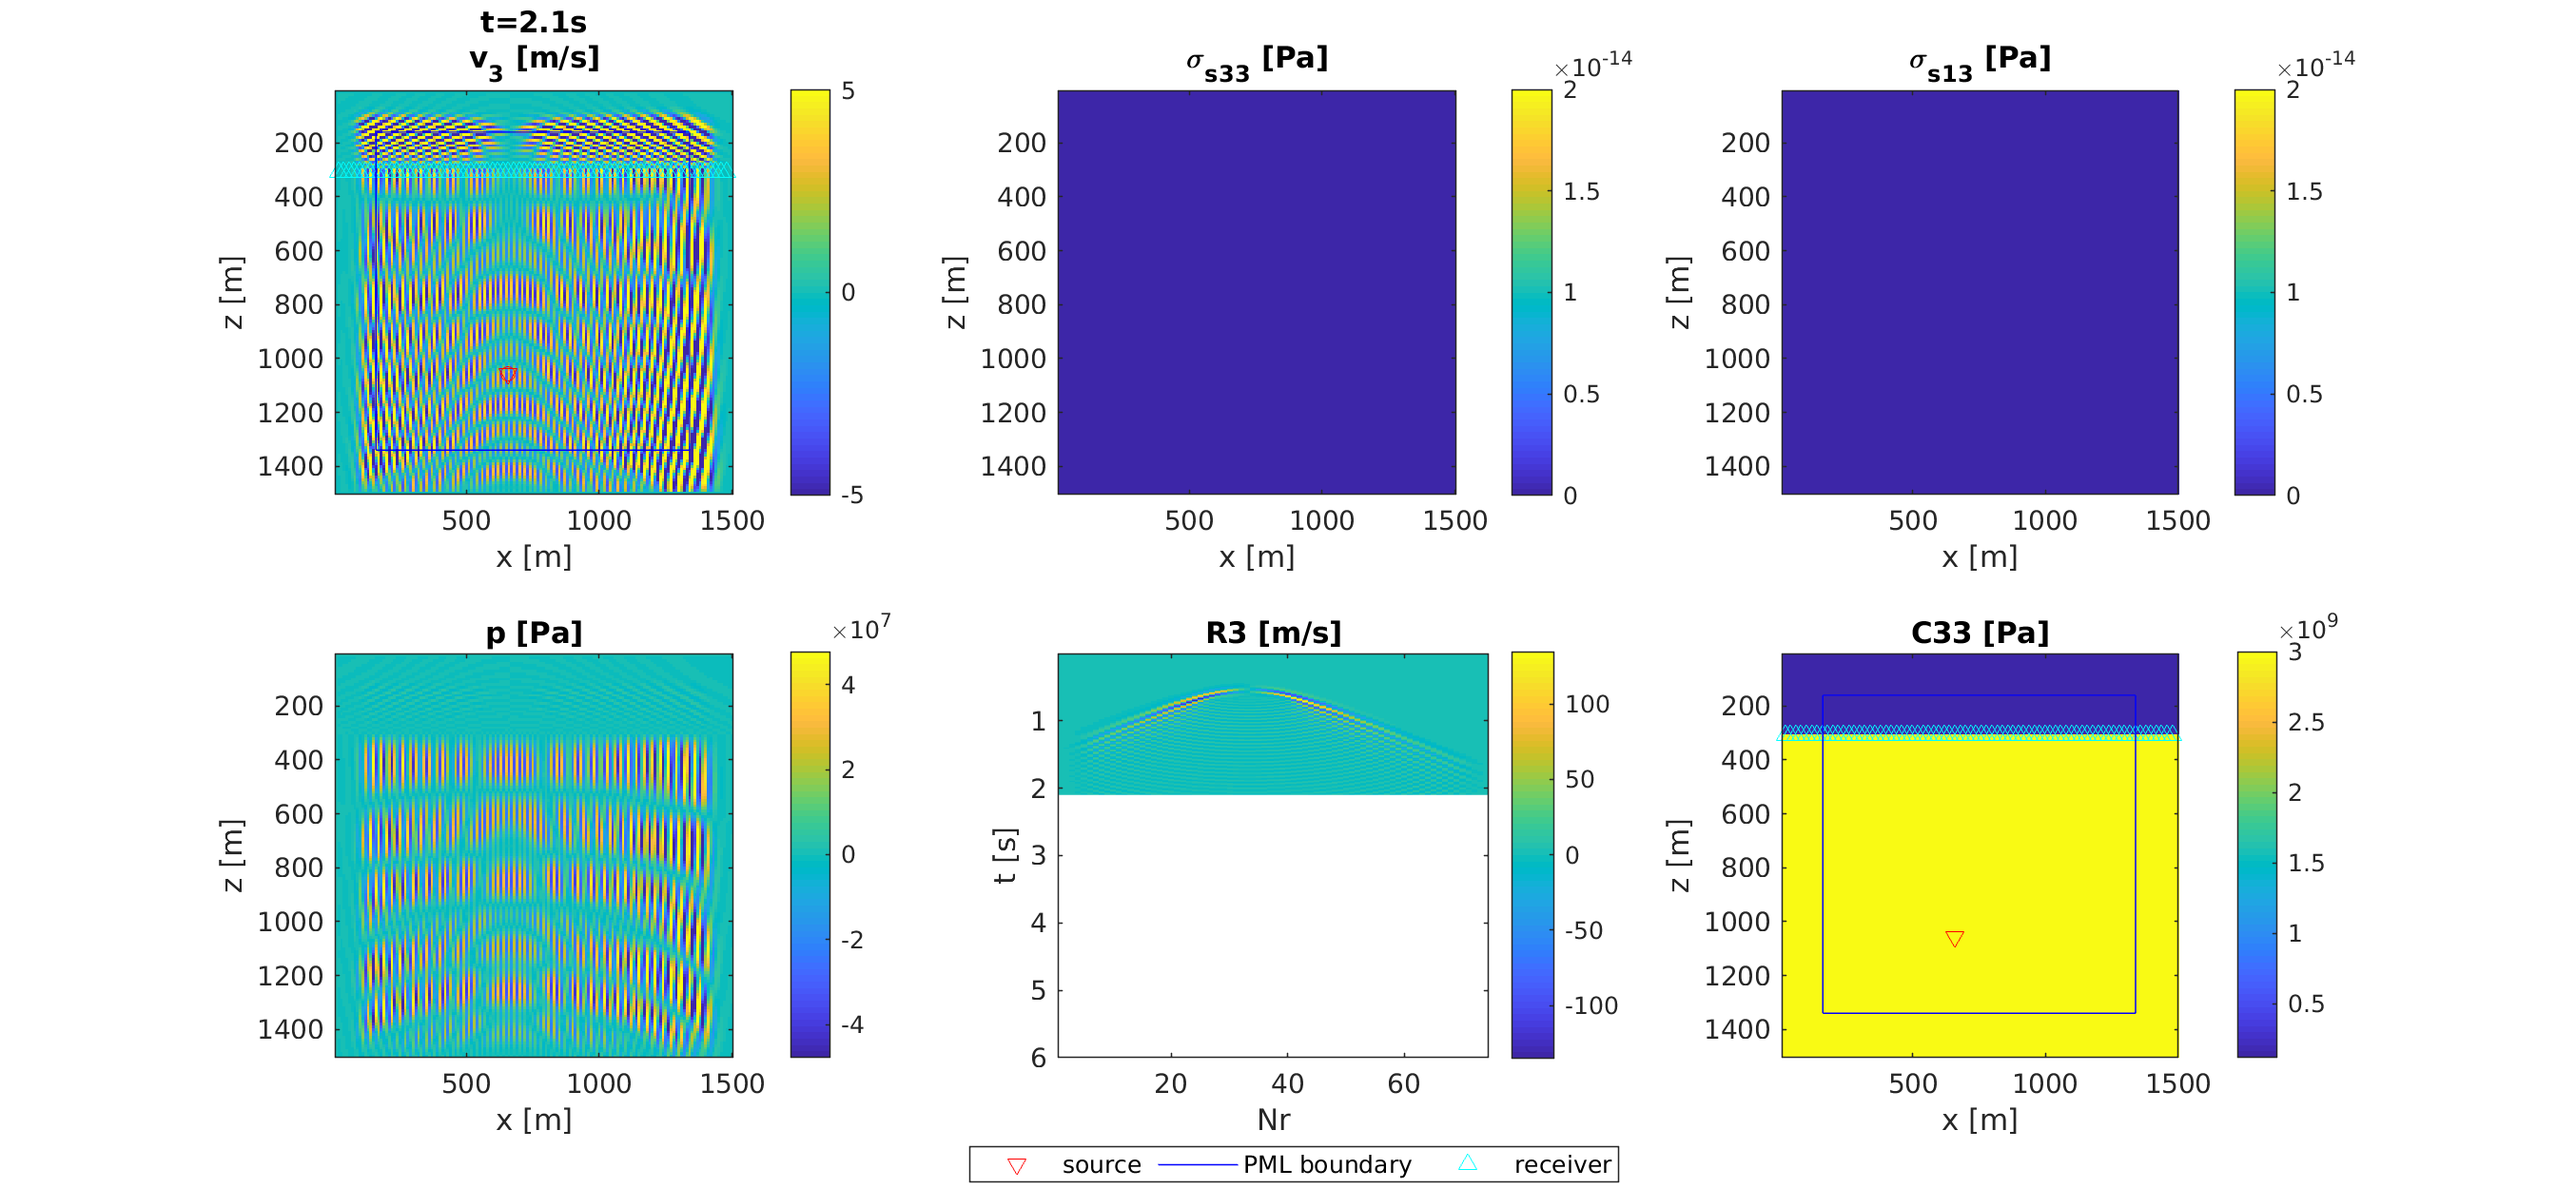
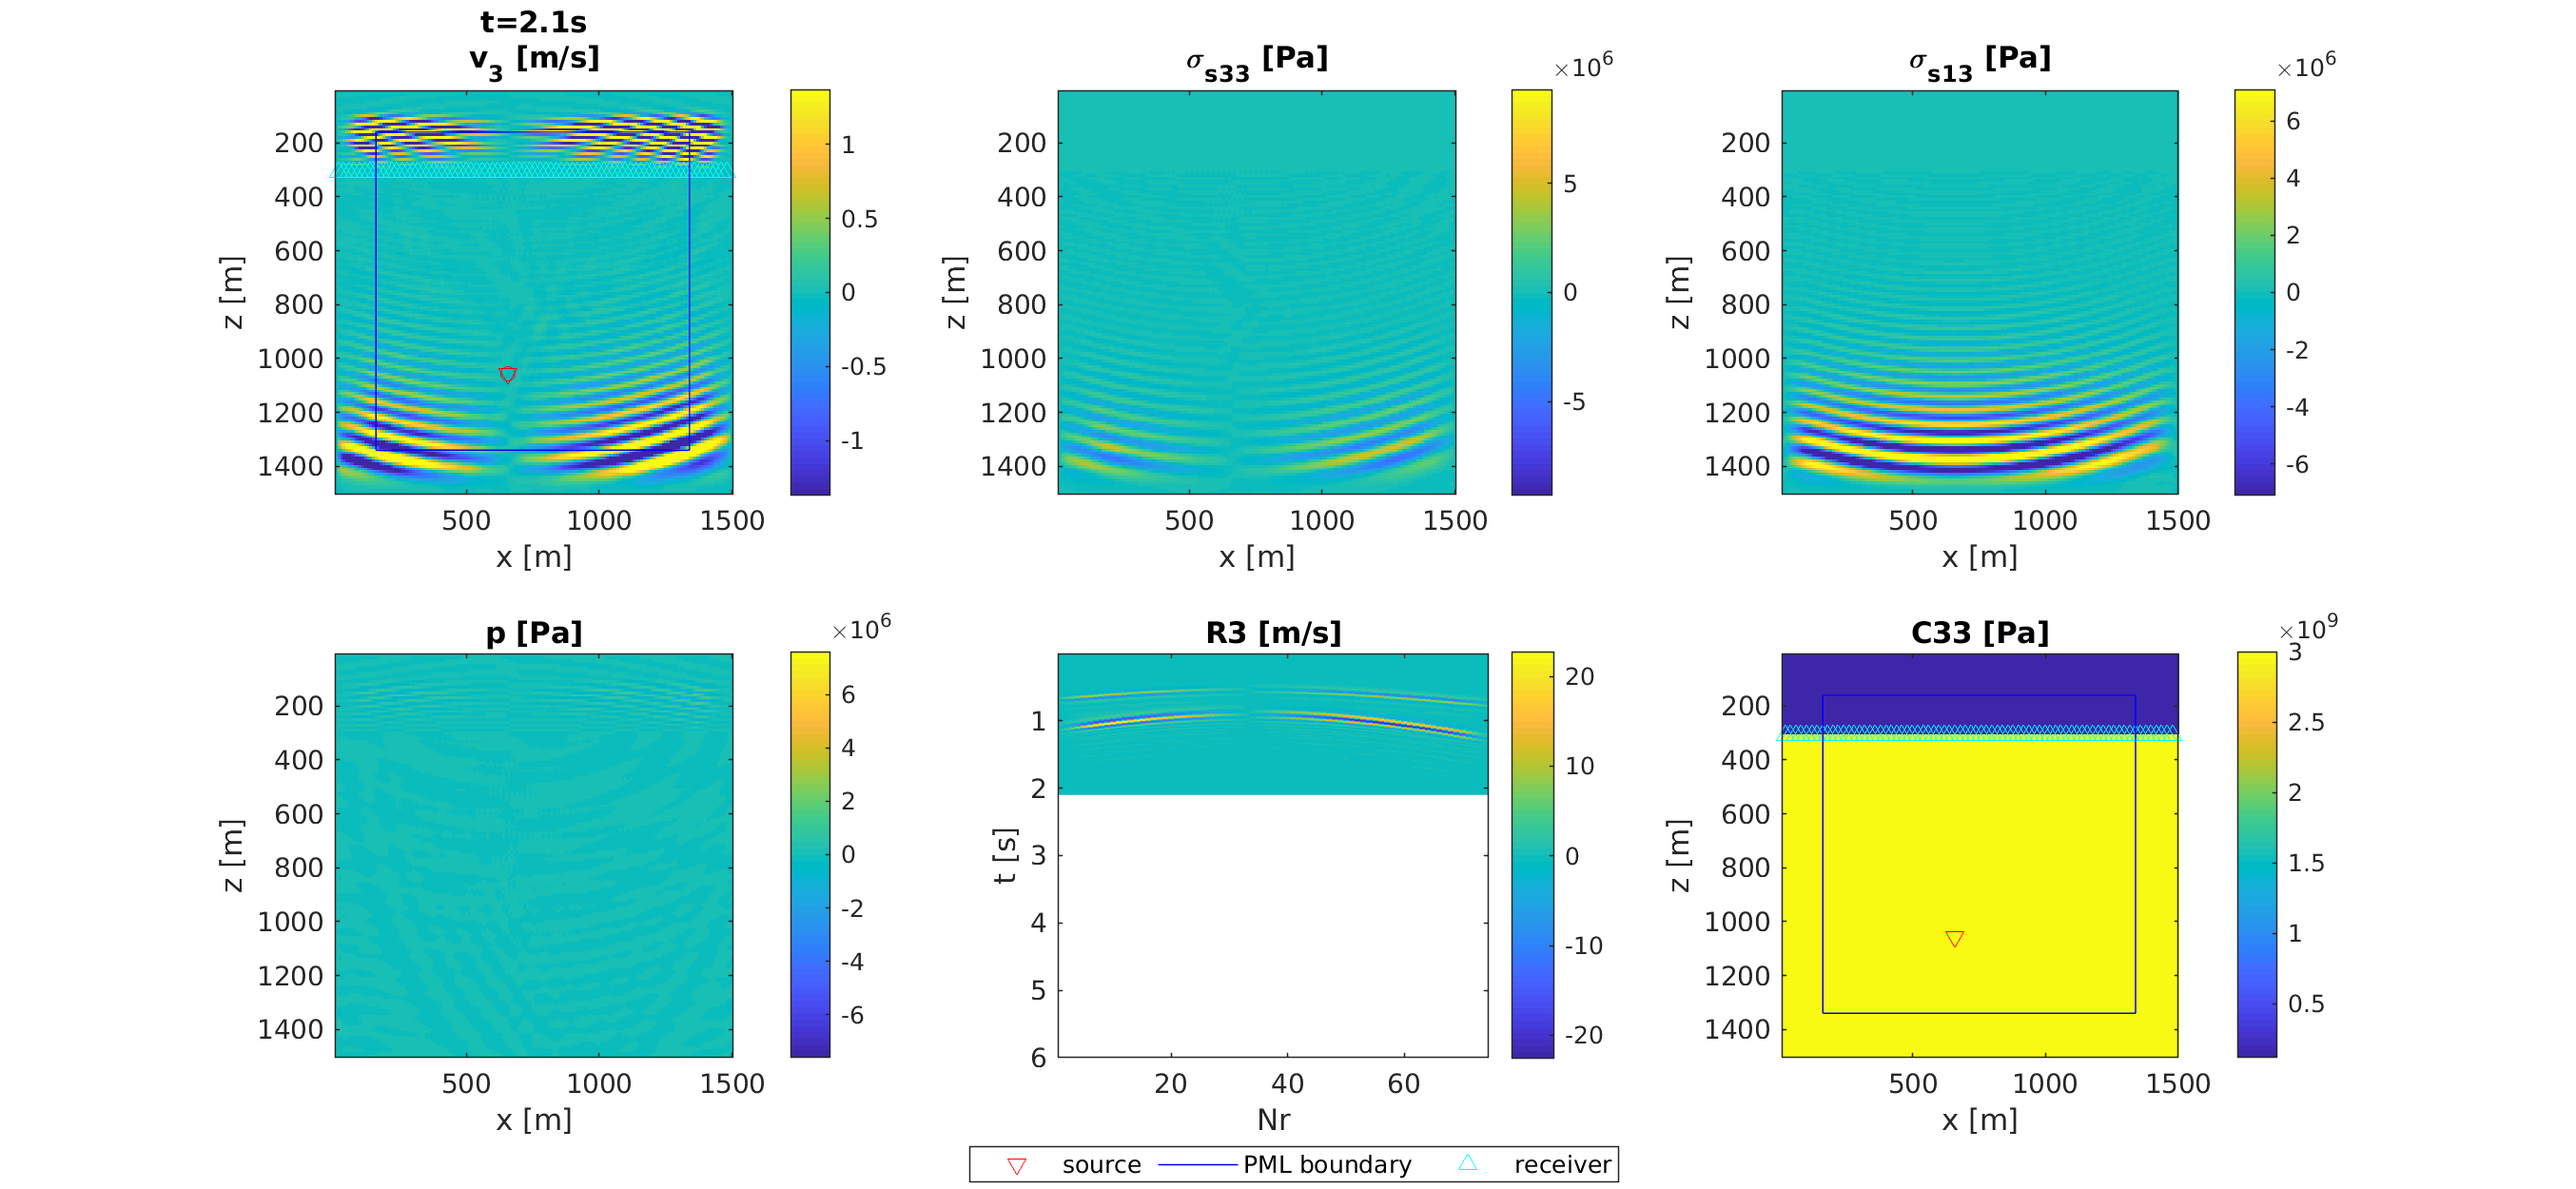
4

diff --git a/monoclinic_2D_xz.m b/monoclinic_2D_xz.m
@@ -67,15 +67,18 @@ S=sigmas11;
 
 l=2;
 
+for is=1:length(s1)
+    ts(s1(is),s3(is))=src1(l,is);
+    ts2(s1(is),s3(is))=src3(l,is);
+end
+
 switch source_type
     case 'D'
-        for is=1:length(s1)
-            v1(:,:,3)=v1(:,:,3)+1./rho.*ts;
-            v3(:,:,3)=v3(:,:,3)+1./rho.*ts2;
-        end
+        v1(:,:,3)=v1(:,:,3)+1./rho.*ts;
+        v3(:,:,3)=v3(:,:,3)+1./rho.*ts2;
     case 'P'
-        v1(:,:,3)=v1(:,:,3)+1./rho.*reshape(AA*reshape(ts,[nx*nz,1]),[nx,nz]);
-        v3(:,:,3)=v3(:,:,3)+1./rho.*reshape(AA3*reshape(ts2,[nx*nz,1]),[nx,nz]);
+        v1(:,:,3)=v1(:,:,3)+1./rho.*.5.*diff(ad(ts,1,1),1,1)/dx;
+        v3(:,:,3)=v3(:,:,3)+1./rho.*.5.*diff(ad(ts2,1,3),1,2)/dz;
 end
 %%
 tic;
@@ -156,7 +159,7 @@ for l=2:nt-1
     R=dt*v1(:,:,2)+R;
     S=dt*v3(:,:,2)+S;
     v1(:,:,3)=dt./rho.*(D(sigmas11-p,-1)/dx+beta3.*M...
-        +D(sigmas13,3)/dz+beta1.*N)/dz...
+        +D(sigmas13,3)/dz+beta1.*N)...
         +v1(:,:,3)...
         -dt*(beta1+beta3).*v1(:,:,2)...
         -dt*beta1.*beta3.*R;
@@ -173,13 +176,11 @@ for l=2:nt-1
     
     switch source_type
         case 'D'
-            for is=1:length(s1)
-                v1(:,:,3)=v1(:,:,3)+1./rho.*ts;
-                v3(:,:,3)=v3(:,:,3)+1./rho.*ts2;
-            end
+            v1(:,:,3)=v1(:,:,3)+1./rho.*ts;
+            v3(:,:,3)=v3(:,:,3)+1./rho.*ts2;
         case 'P'
-            v1(:,:,3)=v1(:,:,3)+1./rho.*reshape(.5*AA*reshape(ts,[nx*nz,1]),[nx,nz]);
-            v3(:,:,3)=v3(:,:,3)+1./rho.*reshape(.5*AA3*reshape(ts2,[nx*nz,1]),[nx,nz]);
+            v1(:,:,3)=v1(:,:,3)+1./rho.*.5.*diff(ad(ts,1,1),1,1)/dx;
+            v3(:,:,3)=v3(:,:,3)+1./rho.*.5.*diff(ad(ts2,1,3),1,2)/dz;
     end
     %% fixed boundary condition
     v1(1,:,3)=0;
@@ -217,8 +218,6 @@ for l=2:nt-1
         xlabel('x [m]');
         ylabel('z [m]');
         colorbar;
-        hold on;
-        ax2=scatter(s1*dx,s3*dz,30,[1,0,0],'o');
         hold on;
         for i=1:length(s1)
             ax2=plot(s1(i)*dx,s3(i)*dz,'v','color',[1,0,0]);

diff --git a/input_inteferometry.m b/input_inteferometry.m
@@ -53,8 +53,8 @@ Eta35=C11;
 Eta55=C11;
 
 % Lame constants for solid
-mu=0;
-lambda=3*10^9;
+mu=10^9;
+lambda=10^9;
 
 % assign solid with its stiffness
 C11(solid)=lambda+2*mu;
@@ -108,8 +108,8 @@ M=2.7;
 
 % source locations
 rng(1)
-random_loc1=randi([lp+1,nx-lp],1,1);
-random_loc3=randi([31,nz-lp],1,1);
+random_loc1=randi([lp+1,nx-lp],1,5);
+random_loc3=randi([31,nz-lp],1,5);
 s1=random_loc1;
 s3=random_loc3;
 
@@ -123,14 +123,14 @@ singles=rickerWave(freq,dt,nt,M);
 src1=repmat(singles,[1,length(s1)]);
 
 % give source signal to z direction
-src3=0*repmat(singles,[1,length(s1)]);
+src3=1*repmat(singles,[1,length(s1)]);
 
 % receiver locations [m]
 r1=(2:2:(nx-1));
 r3=(ones(size(r1)))*31;
 
 % source type. 'D' for directional source. 'P' for P-source.
-source_type='D';
+source_type='P';
 
 % point interval in time steps
 plot_interval=100;
